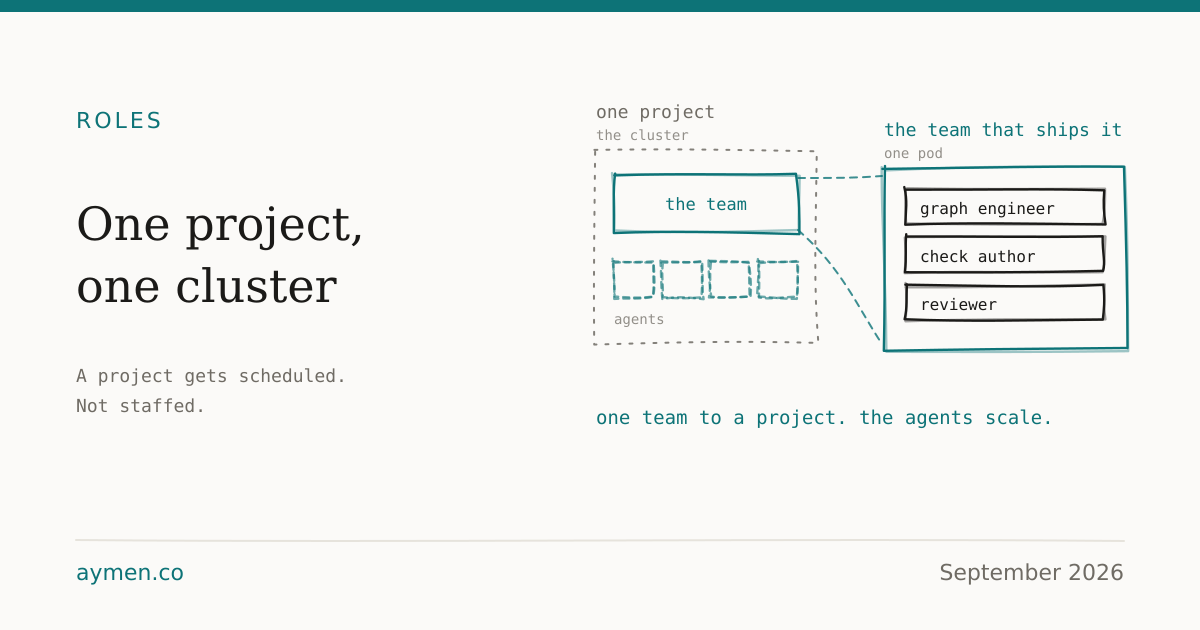
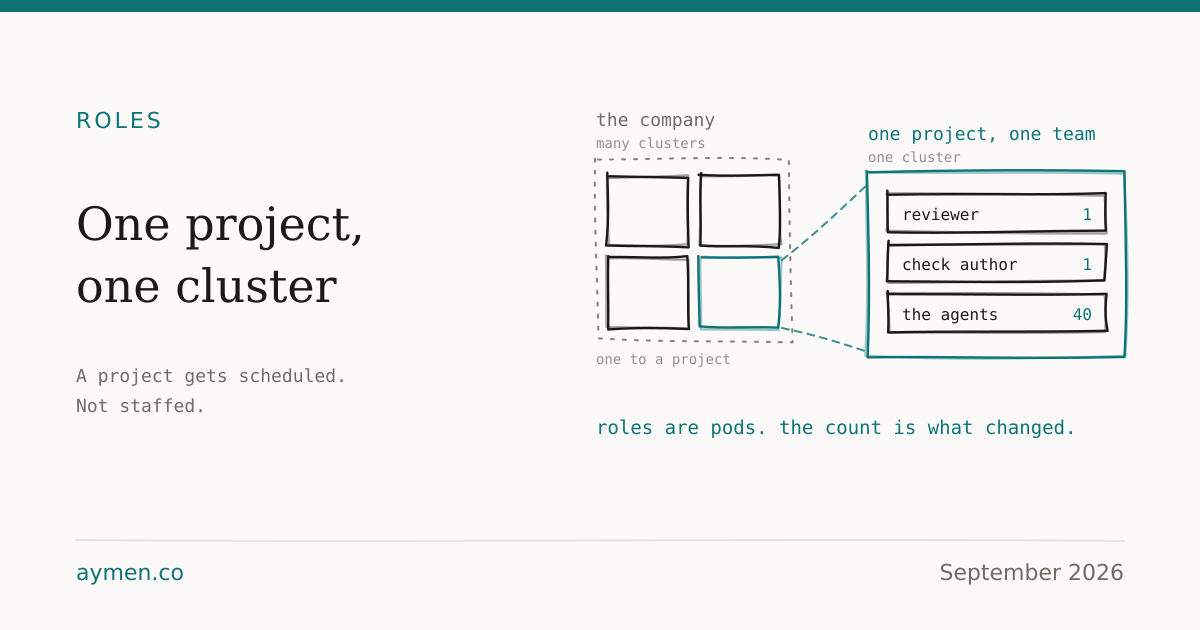
Company, cluster, pod: three levels, and the count

Changed region(s): [[0.4933, 0.1508, 0.9558, 0.573], [0.4933, 0.6333, 0.8942, 0.6937]]

diff --git a/site/posts/one-project-one-cluster.md b/site/posts/one-project-one-cluster.md
@@ -16,9 +16,11 @@ The roles did not get the same treatment. A pool of specialists, allocated by pe
 
 ## The unit is the role, not the person
 
-Kubernetes does not schedule containers. It schedules pods, and a pod is the set of things that have to live and die together. Put two things in one pod because they cannot function apart, not because they happen to be related.
+Kubernetes does not schedule containers. It schedules pods, and a pod is the thing that carries a replica count. You do not scale a container. You scale a pod.
 
-That is the part worth stealing. The unit of a team is not a person and it is not a discipline. It is the smallest set of roles that has to ship together, and the test is the same one: if one of them stops, does the rest of it become pointless? If yes, they are one pod. If no, you have put two things in a box for administrative convenience.
+That is the part worth stealing. A role is a pod. It holds a piece of work and whatever runs it, and how many of it there are is a separate decision from what it is. Some roles run at one because a second would only negotiate with the first. Some run at forty because the work divides cleanly and none of it needs a person.
+
+So the shape is three deep. The company schedules clusters. A cluster is one project and the team that ships it. Inside are the roles, each with a count, and the count is the part that changed.
 
 A project gets scheduled as a cluster. Not staffed. Scheduled.
 
